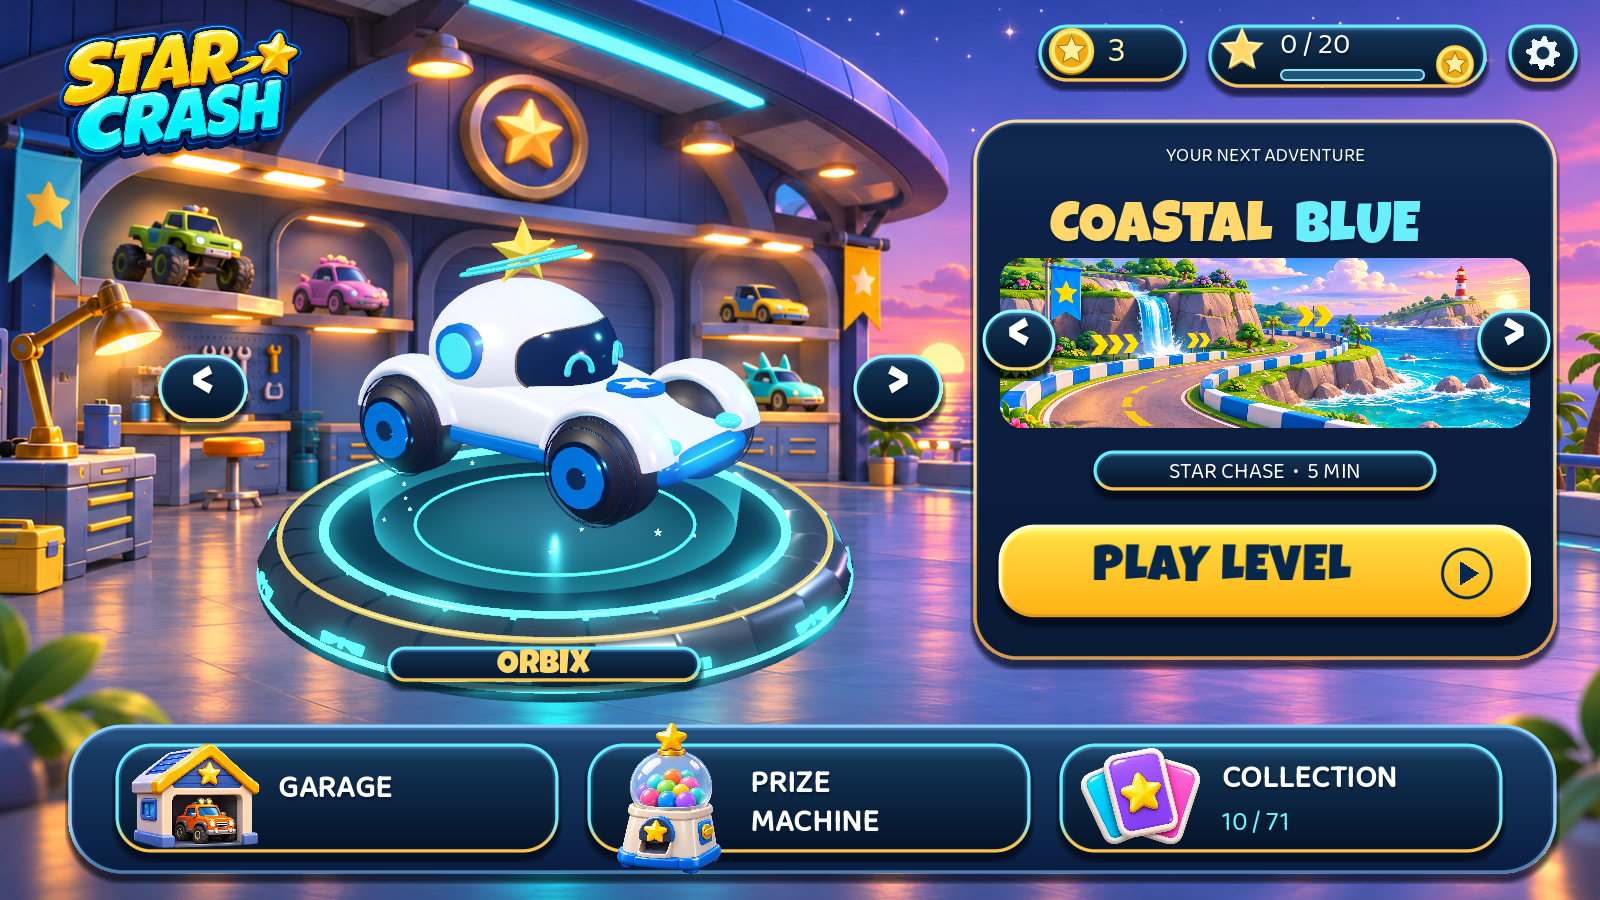
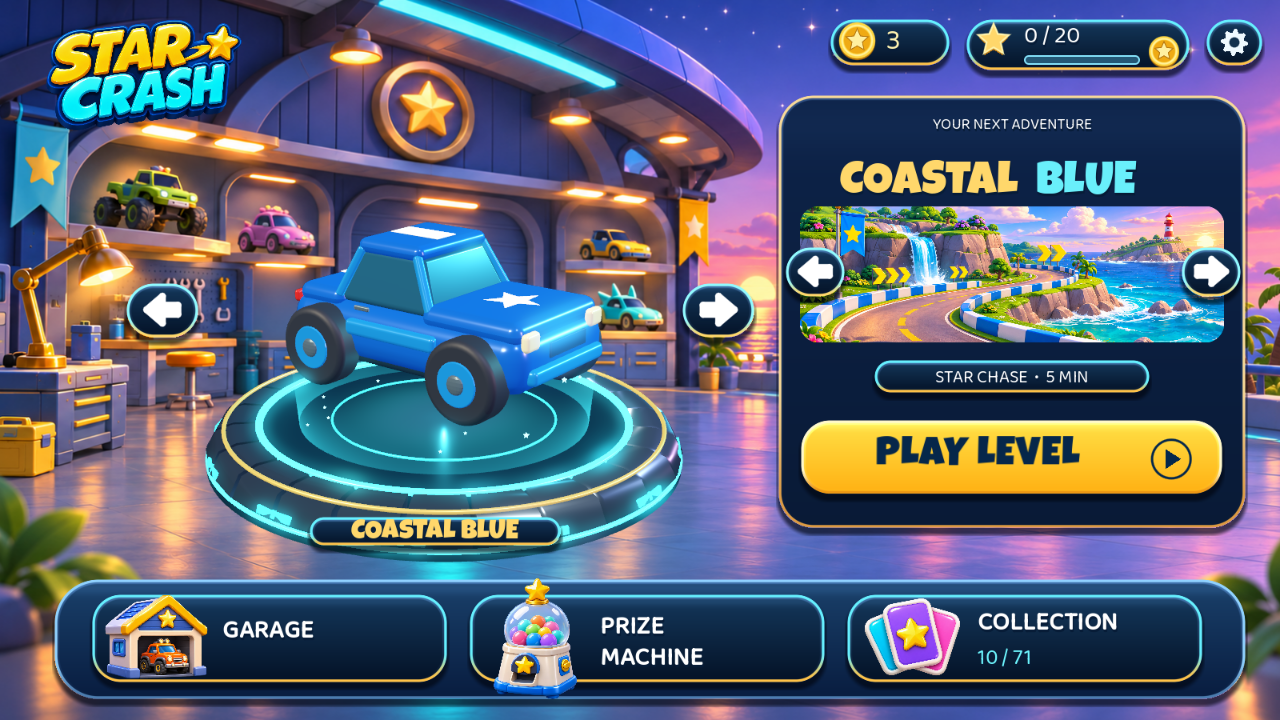
Update download page for Star Crash V41

diff --git a/README.md b/README.md
@@ -1,14 +1,16 @@
 # Star Crash – Coastal Star Chase
 
-A chunky, colourful toy-car arcade game for Windows. Race around Coastal Blue collecting stars, zap rivals with power-ups, and win new rides from the Prize Machine. There are 71 cars to collect.
+A chunky, colourful toy-car arcade game for Windows. Race around Coastal Blue collecting stars, dodge sand, water and oil, zap rivals with power-ups, and win new rides from the Prize Machine. There are 71 cars to collect, and each one drives a little differently.
 
 ![Title screen](title.png)
 
 ## Download and play
-1. Go to **[Releases](../../releases/latest)** and download **`StarCrash-V28.zip`** (about 91 MB).
+1. Go to **[Releases](../../releases/latest)** and download **`StarCrash-V41.zip`** (about 116 MB).
 2. Right-click the zip and choose **Extract All**.
 3. Double-click **`StarCrash.exe`**.
 4. If Windows shows **"Windows protected your PC"**, click **More info**, then **Run anyway**. That happens because this is a small homemade game, not an app from a big publisher. You only need to do it once.
+
+If Windows says **Smart App Control** blocked the game, that PC only runs apps from known publishers, and Star Crash can't run there.
 
 No install, no account and no internet needed. Your progress saves on your own PC.
 
@@ -17,17 +19,25 @@ No install, no account and no internet needed. Your progress saves on your own P
 |---|---|
 | W / Arrow keys | Drive and steer |
 | Space | Fire your power-up |
+| Q | Cruise |
 | C | Change camera |
-| Esc | Pause |
+| Esc | Pause (lists all the controls) |
+| Controller | Stick to drive, A / RT to fire, Start to pause |
 
-Mouse and touch work in the menus.
+Mouse and touch work in the menus. On a touchscreen, on-screen driving buttons appear automatically. You can turn them on or off in **Settings**.
 
 ## How it works
+- Collect stars in a **5-minute star chase** against five rivals.
+- **Sand and water** slow you down, and **oil** spins you around.
 - Every **20 stars** you collect makes **1 coin**.
 - Spend **3 coins** in the **Prize Machine** to win a new ride.
+- Every ride is a **Racer, Zippy, Off-Road, Heavy or All-Rounder**.
 - Pick what to drive in the **Garage**, and see all 71 rides and set medals in your **Collection**.
 
 ## Requirements
 Windows 10 or 11 (64-bit), with a graphics card that supports Vulkan or DirectX 12. Most PCs from the last several years do.
+
+## Credits
+Music: the "For Racing Game" collection by MintoDog (CC0), from [OpenGameArt](https://opengameart.org/content/for-racing-game-mintodogs-music).
 
 This repo only holds the game download, not the source code.
